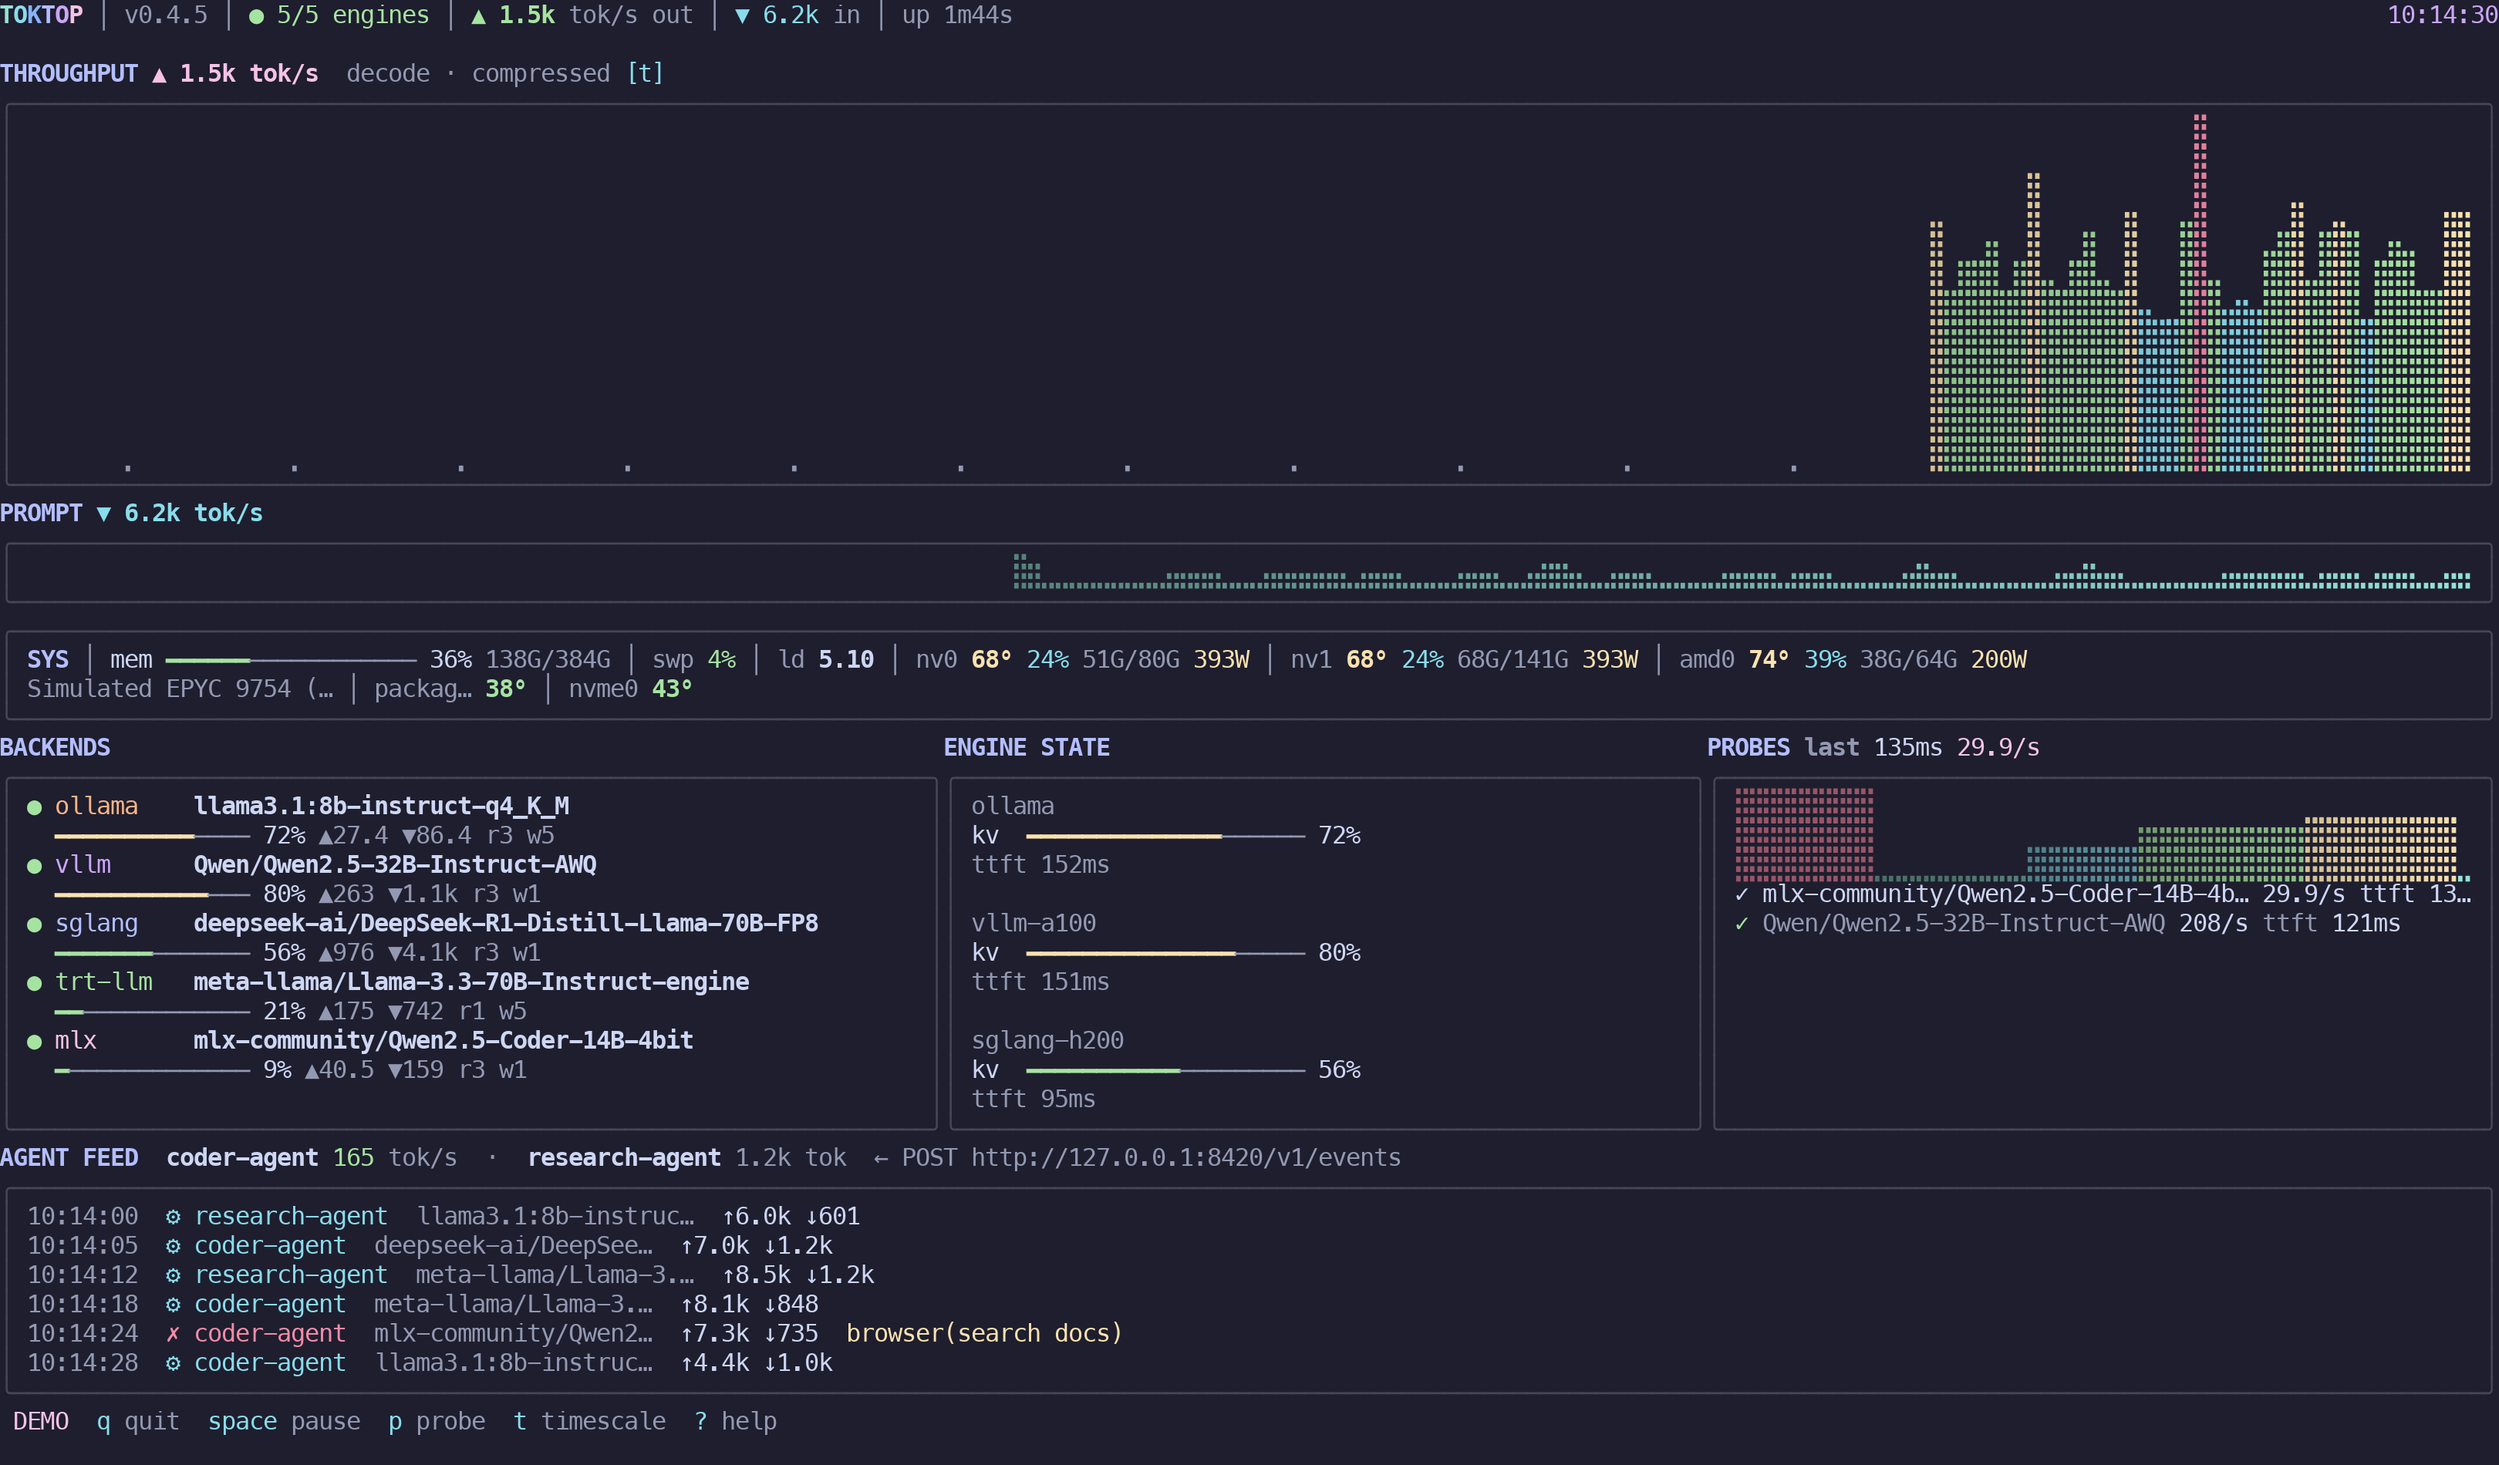
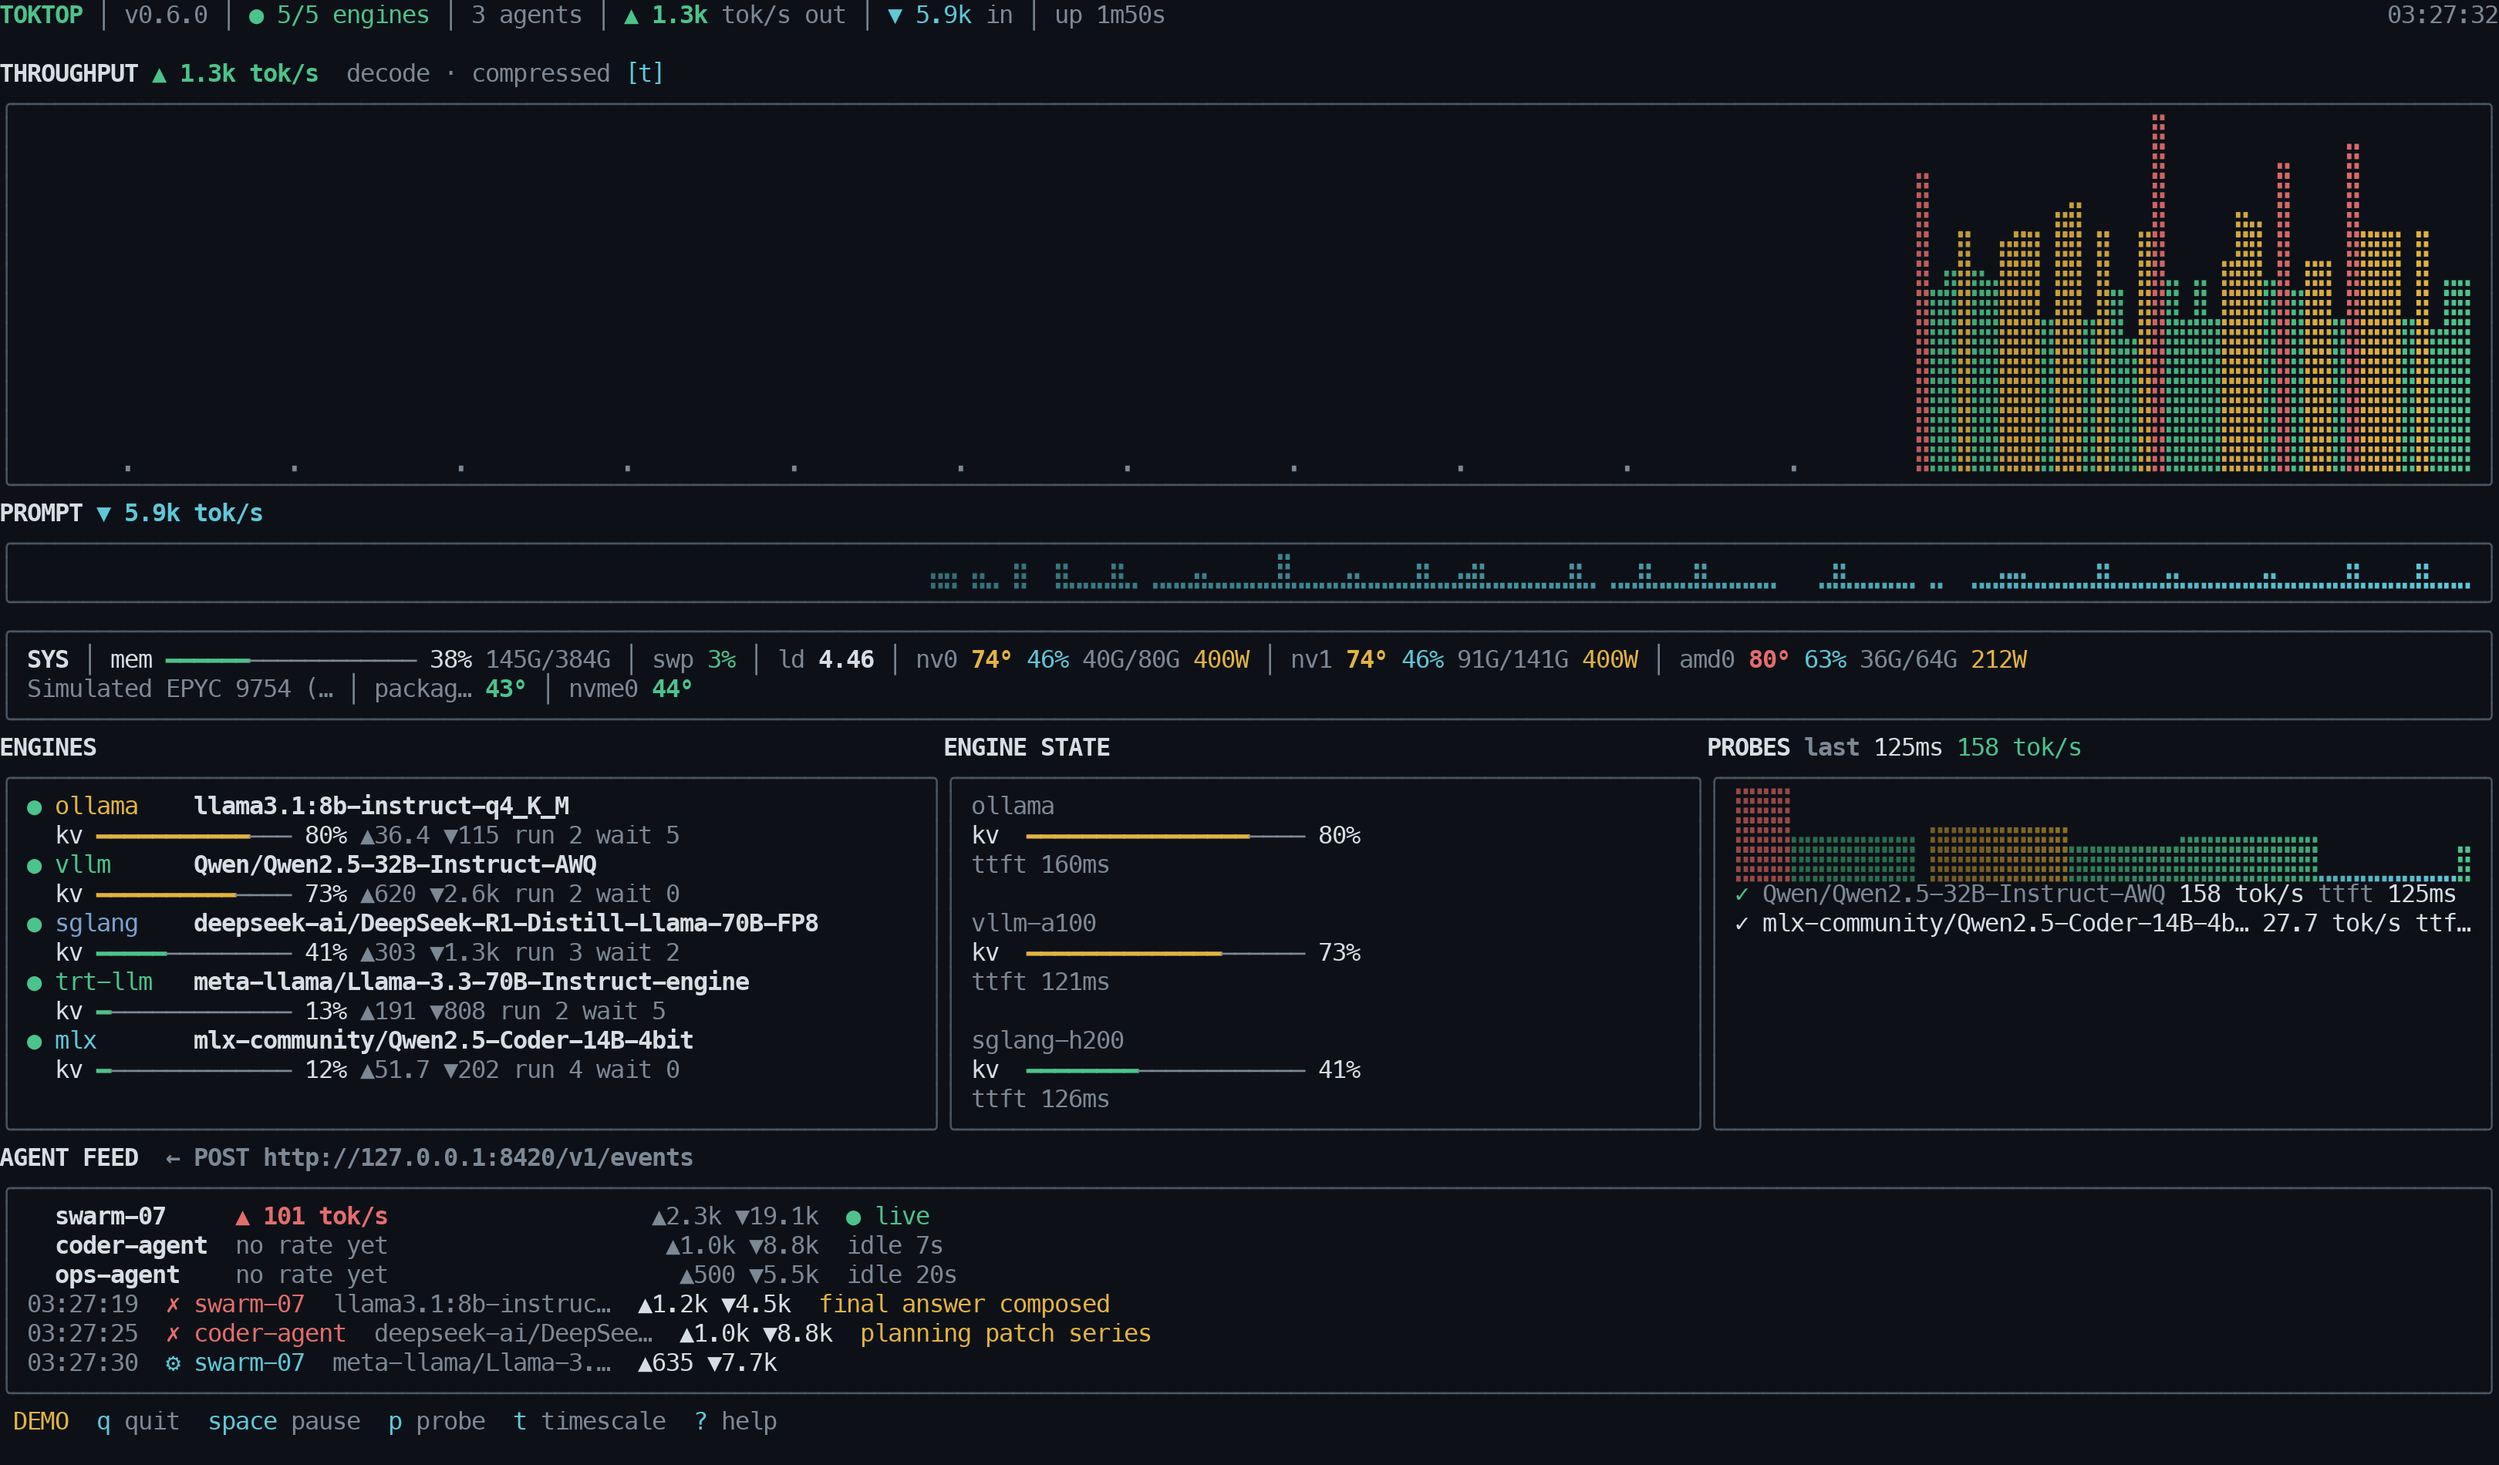
docs: recapture the dashboard and put real numbers on the site
the committed screenshot predates the agent stats row and the palette it
ships now, and still said v0.4.5. Recaptured at 0.6.0, same geometry, so
the og:image dimensions hold.

the site's hero block was hand-written: engine names, rates and agent
rows nobody ever measured. It now carries a demo frame, labelled with the
command that produces it, including the "no rate yet" state that is the
point of the honesty section further down. That grew the page 90 bytes,
so the recorded transfer sizes move with it.

the plain-report sample in the readme predates the agent count in the
summary line, and the flag list never learned about the help and version
subcommands.

diff --git a/site/worker.js b/site/worker.js
@@ -98,14 +98,17 @@ const HTML = htmlForWire(`<!doctype html>
   <p class="tag"><code>btop</code> for AI: a terminal dashboard for LLM inference
   engines and the coding agents hammering them.</p>
 
-<pre tabindex="0"><code>ENGINES  <span class="dim">local + ssh</span>
-  llama.cpp   <span class="up">▲ 42.1 tok/s</span>   kv <span class="warm">61%</span>   q 2   qwen3-30b
-  vLLM        <span class="up">▲ 18.7 tok/s</span>   kv 12%   q 0   llama-3.3-70b
+<pre tabindex="0"><code><span class="dim">$</span> toktop --demo
+
+ENGINES  <span class="dim">local + ssh</span>
+  ollama    <span class="dim">llama3.1:8b-instruct-q4_K_M</span>
+    kv <span class="warm">80%</span>   <span class="up">▲ 36.4</span> ▼ 115    run 2 wait 5
+  vllm      <span class="dim">Qwen/Qwen2.5-32B-Instruct-AWQ</span>
+    kv <span class="warm">73%</span>   <span class="up">▲ 620</span> ▼ 2.6k   run 2 wait 0
 
 AGENTS  <span class="dim">read from their own session logs</span>
-  claude      <span class="up">▲ 1.1k tok/s</span>   2.4k tok   <span class="up">● live</span>
-  codex       <span class="up">▲ 340 tok/s</span>    18k tok    <span class="dim">idle 12s</span>
-  opencode    <span class="up">▲ 612 tok/s</span>    41k tok    <span class="up">● live</span></code></pre>
+  swarm-07     <span class="up">▲ 101 tok/s</span>   ▲2.3k ▼19.1k   <span class="up">● live</span>
+  coder-agent  <span class="dim">no rate yet</span>   ▲1.0k ▼8.8k    <span class="dim">idle 7s</span></code></pre>
 
   <h2>Install</h2>
 <pre tabindex="0"><code>go install -tags sqlite github.com/maci0/toktop/cmd/toktop@latest

diff --git a/site/worker.test.js b/site/worker.test.js
@@ -177,9 +177,9 @@ test("recorded transfer sizes stay inside the initial congestion window", async 
   const brotli = new Uint8Array(
     await (await call({ "accept-encoding": "br" })).arrayBuffer(),
   ).byteLength;
-  expect(identity).toBe(6124);
-  expect(gzipped).toBe(2609);
-  expect(brotli).toBe(2116);
+  expect(identity).toBe(6214);
+  expect(gzipped).toBe(2682);
+  expect(brotli).toBe(2165);
   expect(identity).toBeLessThan(budget);
   expect(gzipped).toBeLessThan(budget);
   expect(brotli).toBeLessThan(budget);

diff --git a/README.md b/README.md
@@ -289,7 +289,7 @@ technology:
 
   ```
   $ toktop --once --plain
-  5/5 engines up · out 979 tok/s · in 4.1k tok/s · session 24s
+  5/5 engines up · out 1.5k tok/s · in 10k tok/s · 2 agents · session 24s
 
   ENGINES
   up   vllm-a100 (vllm)
@@ -297,15 +297,15 @@ technology:
          out 155 tok/s · in 662 tok/s · kv cache 68% · running 2 · waiting 0 · ttft 115ms
 
   SYSTEM
-  memory 64% (247G/384G) · swap 17% · load 5.06
+  memory 64% (248G/384G) · swap 17% · load 5.06
   gpu nv0 A100-SXM4-80GB 82° 69% util vram 57G/80G 397W
 
   PROBES
-  ok llama3.1:8b-instruct-q4_K_M ttft 83ms 26.8 tok/s
+  ok meta-llama/Llama-3.3-70B-Instruct-engine ttft 113ms 135 tok/s
 
   AGENT FEED
-  ops-agent 487 tok/s · swarm-07 392 tok/s
-  10:16:15 error swarm-07 model deepseek-ai/DeepSeek-R1 prompt 1.5k output 242 note retry after 429
+  ops-agent 293 tok/s · research-agent 247 tok/s
+  03:29:23 note ops-agent model Qwen/Qwen2.5-32B-Instruct-AWQ prompt 9.2k output 783 note browser(search docs)
   ```
 
 - **Tested contrast** - unit tests hold the palette to WCAG 2.2 AA: text
@@ -319,6 +319,8 @@ technology:
 ```
 toktop update     subcommand: install the latest release (--check to only
                   report it, --repo owner/name for a fork)
+toktop help       subcommand: usage (help update for the updater's own)
+toktop version    subcommand: same as --version
 toktop help       same as --help; `toktop help update` for the subcommand
 toktop version    same as --version
 --demo            simulated fleet, zero setup

diff --git a/CONTRIBUTING.md b/CONTRIBUTING.md
@@ -51,9 +51,10 @@ exec over a running image, so the dashboard exits instead.
 and rendered by `scripts/screenshot.py`:
 
 ```
-make build VERSION=0.5.0
-tmux new-session -d -x 180 -y 50 -s shot './toktop --demo --seed 7 --no-hot-reload'
-sleep 60 && tmux send-keys -t shot p          # let the charts fill, then probe
+make build VERSION=0.6.0
+tmux new-session -d -c "$PWD" -x 180 -y 50 -s shot './toktop --demo --seed 7 --no-hot-reload'
+sleep 60 && tmux send-keys -t shot p   # let the charts fill, then probe
+sleep 40                               # and let the probes answer
 tmux capture-pane -e -p -t shot > .scratch/capture.txt
 tmux kill-session -t shot
 uv run --isolated --no-project --with-requirements scripts/requirements.txt \
@@ -65,7 +66,9 @@ keeps the renderer from re-deriving it and wrapping. `VERSION` is stamped into
 the header, so pass the version being released rather than `dev`. Rendering
 needs a Meslo Nerd Font installed, or `TOKTOP_SCREENSHOT_FONT` pointing at a
 regular-weight `.ttf`. The `uv run` flags match `make scripts-check` so uv
-does not create a `.venv` from `pyproject.toml`.
+does not create a `.venv` from `pyproject.toml`. `-c "$PWD"` is what puts the
+pane in this checkout: a detached session otherwise starts wherever the tmux
+server did, and `./toktop` is not there.
 
 The image's pixel size is repeated in `site/worker.js` as the `og:image`
 dimensions; update both together.

diff --git a/site/README.md b/site/README.md
@@ -32,7 +32,7 @@ so caches never hand a compressed body to a client that cannot decode it.
 ## Performance budget
 
 One request, no JavaScript, no webfonts, inline CSS only. Measured against the
-current source: 6,124 bytes identity / 2,609 gzip / 2,116 brotli - all inside
+current source: 6,214 bytes identity / 2,682 gzip / 2,165 brotli - all inside
 the ~14 KB initial congestion window, so first paint needs a single round
 trip. Anything pulling the page past one window (a script, a font, an image)
 needs a better reason than decoration. The budget is pinned by a test, so
